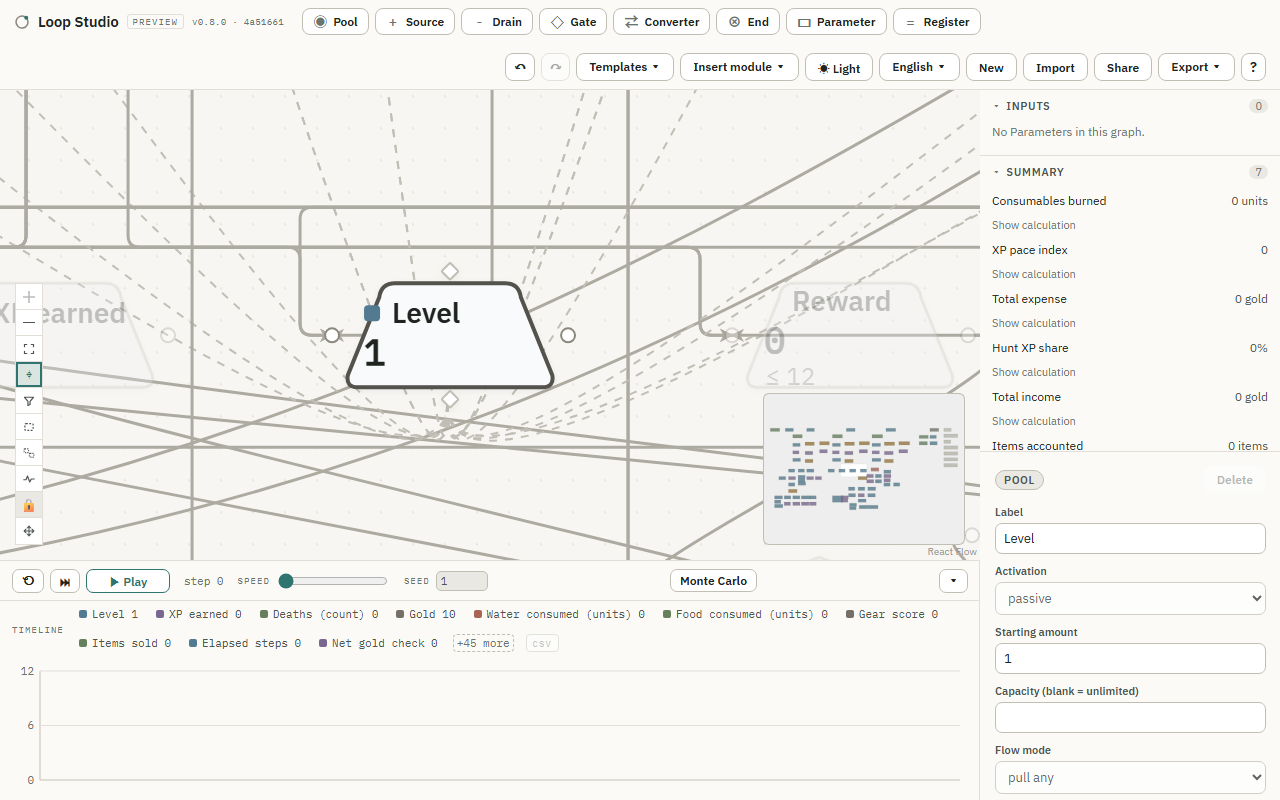
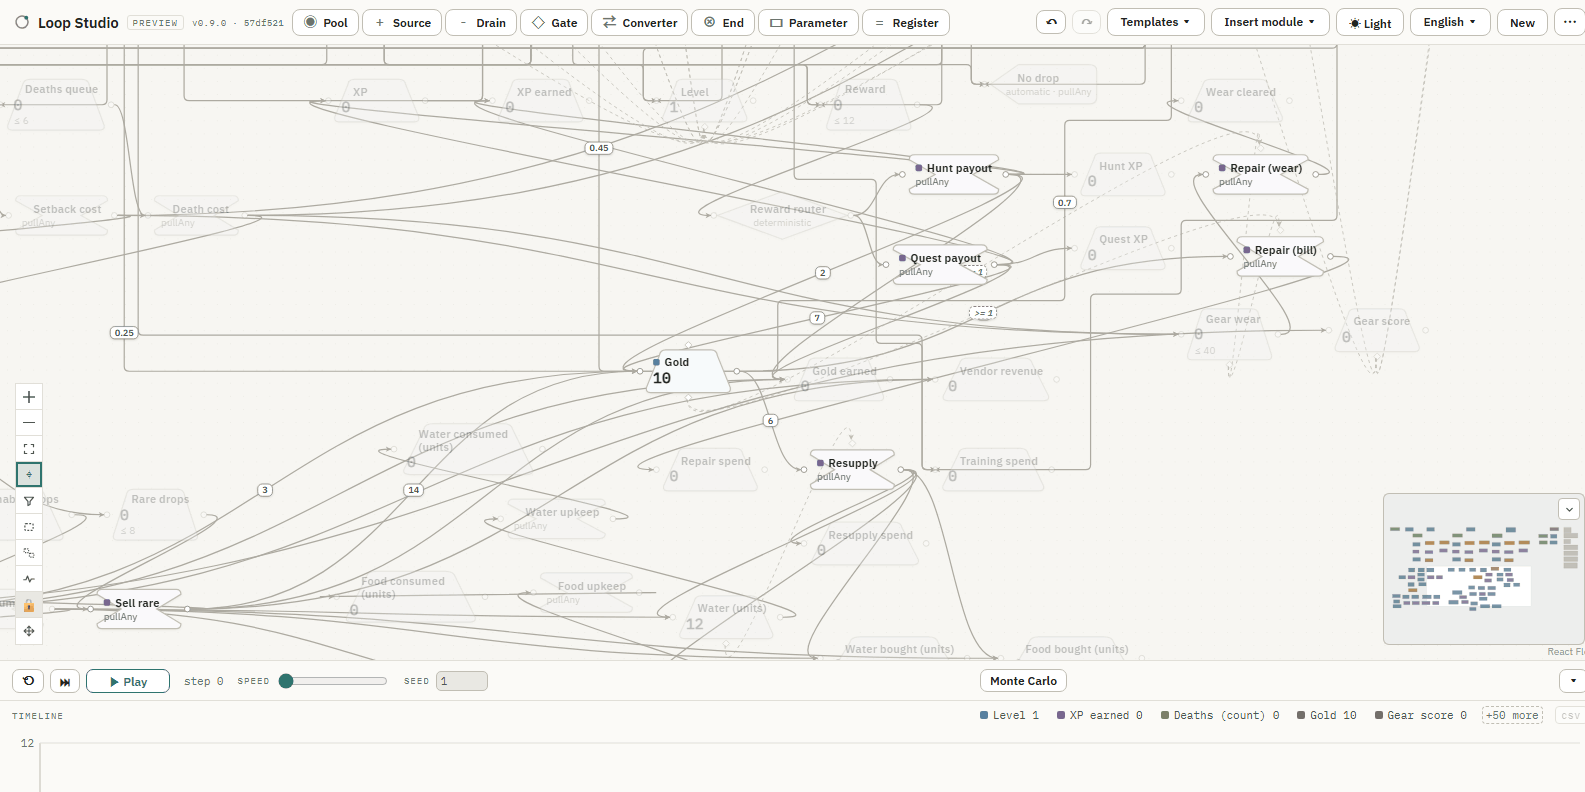
docs(readme): refresh screenshots for v0.9.0; drop the stale demo GIF
The README text is v0.9.0 but the images showed the pre-v0.9.0 UI — a
contradictory first impression. Re-shot on the local v0.9.0 build (57df521),
English UI, 1600×900 1×, transient overlays hidden.

- hero-coffee.png — Coffee, ~8 steps in, the three zone frames + Timeline; the
  toolbar now reads v0.9.0. (195 KB → 86 KB, palette-optimised)
- coffee-flow.png — re-framed to show the desktop **Inputs** + **Summary**
  panels and a Register's expression editor open (the `@` read-back, the
  `＋ − × ÷ ( )` operator keypad, `＋ Insert reference`) alongside the zone
  frames and Timeline. Alt text + the "The model" caption updated to match.
- mmo-focus.png — Focus demo now on the **Gold** economy hub (its money
  sub-loop drawn solid, ~80 nodes dimmed) with the minimap visible. Alt text
  updated ("Level" → "Gold", minimap noted).
- demo.gif — **removed** (3.5 MB). It went stale every release and the static
  set now covers the product; can be re-recorded later if wanted.

Docs / assets only.

diff --git a/README.md b/README.md
@@ -1,8 +1,6 @@
 # Loop Studio
 
-![Loop Studio — the Coffee roastery Template grouped into three labelled zone frames (supply & inventory, roasting & sales, forecast metrics), a few steps into a run with the Timeline filling in](docs/assets/hero-coffee.png)
-
-![A ~16-second walkthrough: loading the Coffee roastery Template, running it a few steps while the Timeline fills in, switching to the 97-node Early MMO progression example, then selecting a node and turning Focus on to dim everything outside its neighbourhood](docs/assets/demo.gif)
+![Loop Studio v0.9.0 — the Coffee roastery Template grouped into three labelled zone frames (supply & inventory, roasting & sales, forecast metrics), a few steps into a run with the Timeline filling in](docs/assets/hero-coffee.png)
 
 Loop Studio is a browser-based **visual systems editor and simulator** for
 resource flows, state changes, probabilistic rules, and feedback loops. It is
@@ -120,15 +118,18 @@ language menu; the choice is a local UI preference only). Four bundled
 economy: green beans arrive, get roasted (82 % yield), and leave as
 café / retail / online / dessert sales, with five day-to-day Parameters
 feeding five computed Register outputs (projected revenue, cost, operating
-margin, roasted-bean supply margin, dessert-prep margin).
+margin, roasted-bean supply margin, dessert-prep margin). The desktop right
+column surfaces those as editable **Inputs** and a read-through **Summary**;
+selecting a Register opens its expression editor — a name/value read-back, the
+`＋ − × ÷ ( )` operator keypad, and `＋ Insert reference`.
 
-![The full Coffee roastery graph — a Parameters row across the top, the roast-and-sell flow through the middle, a dessert sub-chain below, and a column of Register outputs on the right](docs/assets/coffee-flow.png)
+![The Coffee roastery Template with the Inputs and Summary panels open in the right column and a Register's expression editor selected — showing the name/value read-back, the ＋ − × ÷ ( ) operator keypad and ＋ Insert reference — three labelled zone frames behind the graph and the Timeline filling in below](docs/assets/coffee-flow.png)
 
 **Reading a large graph** — the *Early MMO progression* example has 97 nodes.
 Select one, turn Focus on, and everything outside its one-hop neighbourhood
 dims — nothing is hidden, so structure stays legible without losing context.
 
-![The 97-node Early MMO progression graph with Focus on: the selected "Level" pool and its direct neighbours are drawn solid, the other ~80 nodes are faded to a light grey](docs/assets/mmo-focus.png)
+![The 97-node Early MMO progression graph with Focus on: the selected "Gold" pool and its direct neighbours are drawn solid, the other ~80 nodes are faded to a light grey, and the minimap sits in the bottom-right corner](docs/assets/mmo-focus.png)
 
 ## Why
 
